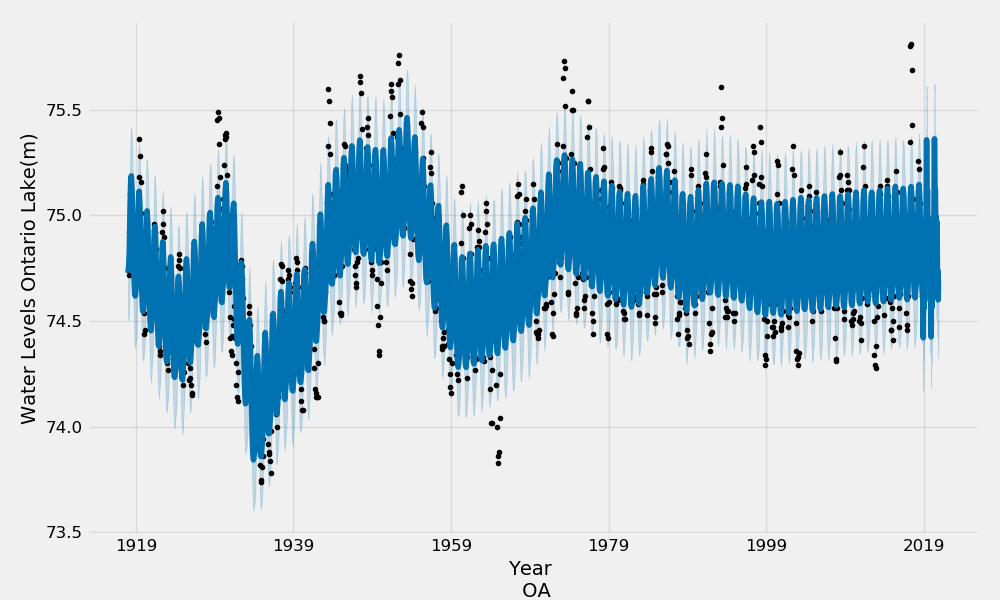
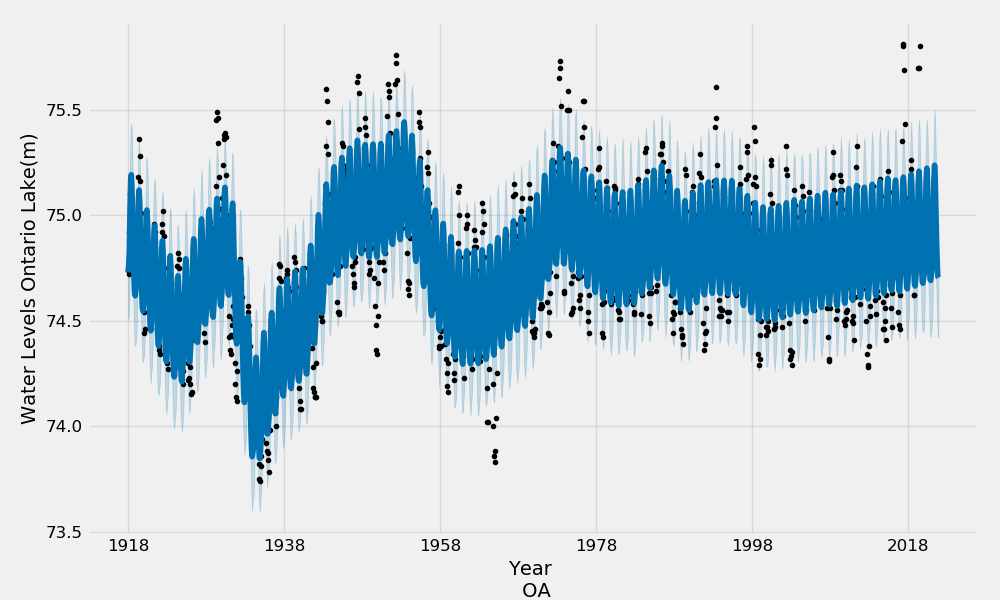
Forecasting

diff --git a/README.md b/README.md
@@ -1,5 +1,7 @@
 # Forecasting - Lake Ontario
-This repository contains some results and analysis of prediction using machine learning 
+
+Using 100 years of data (1918-2018), this figure shows a prediction for the next 2 years. For details see [here]
+Monthly mean water levels in metres referred to IGLD 1985
 
  ![](https://github.com/alminagorta/MachineLearning/blob/master/Figures/Time%20Series_WaterLevel_Ontario.png)
 
